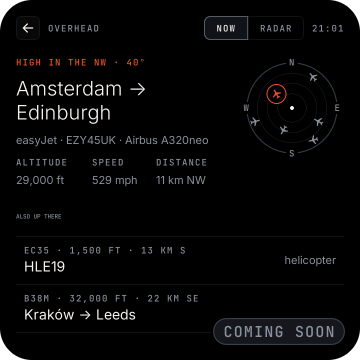
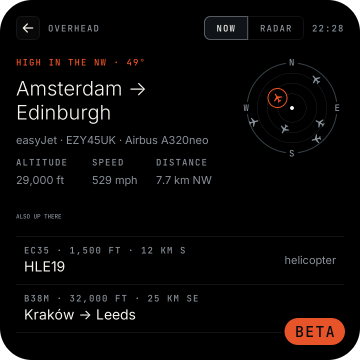
README: Overhead and Report a problem are Beta from 0.5.0-beta.7

diff --git a/README.md b/README.md
@@ -163,7 +163,7 @@ Not screens you add: what every panel has, most of it in Settings.
 | [Home Assistant link](https://mrdarrengriffin.github.io/facet/screens/settings/) `BETA` | Settings > Home Assistant: the panel's own link to Home Assistant, its address and token kept on the panel. |
 | [API keys](https://mrdarrengriffin.github.io/facet/screens/settings/) `BETA` | Settings > API keys: the keys scripts, automations and agents use to change the panel; you allow each on the glass, and revoke them here. |
 | [Update channels](https://mrdarrengriffin.github.io/facet/screens/settings/) `BETA` | Settings > Update channel: Stable releases, or Beta and Dev builds that come more often. |
-| [Report a problem](https://mrdarrengriffin.github.io/facet/screens/settings/) `COMING SOON` | Settings > Report a problem: the address of the panel's report page, with its logs kept across restarts and an issue filled in. |
+| [Report a problem](https://mrdarrengriffin.github.io/facet/screens/settings/) `BETA` | Settings > Report a problem: the address of the panel's report page, with its logs kept across restarts and an issue filled in. |
 
 More screens are on the way (thermostat, lock, vacuum, cameras, plants and others): see the
 [roadmap](https://mrdarrengriffin.github.io/facet/roadmap/).
